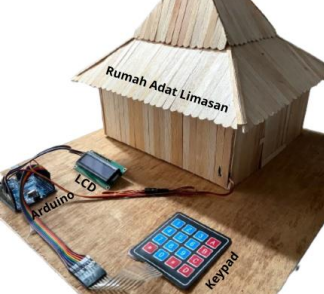
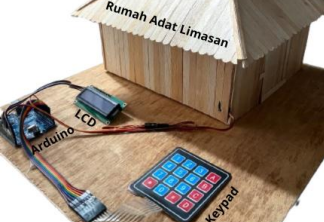
final responsive portfolio

diff --git a/index.html b/index.html
@@ -21,9 +21,18 @@
     scroll-behavior:smooth;
 }
 
+html,body{
+    overflow-x:hidden;
+}
+
 body{
     background:#020617;
     color:white;
+}
+
+img{
+    max-width:100%;
+    display:block;
 }
 
 .glass{
@@ -57,7 +66,7 @@ body{
 
 <nav class="fixed top-0 w-full glass z-50">
 
-<div class="max-w-7xl mx-auto px-6 py-4 flex justify-between items-center">
+<div class="max-w-7xl mx-auto px-4 md:px-6 py-4 flex justify-between items-center">
 
 <div class="flex items-center gap-3">
 
@@ -66,13 +75,13 @@ src="assets/profile.jpeg"
 alt="Ferdian"
 class="w-10 h-10 rounded-full border-2 border-cyan-400 object-cover">
 
-<h1 class="text-2xl font-bold text-cyan-400">
+<h1 class="text-lg md:text-2xl font-bold text-cyan-400">
 Portofolio-Ferdian
 </h1>
 
 </div>
 
-<div class="hidden md:flex gap-8">
+<div class="flex gap-4 md:gap-8 text-sm md:text-base">
 
 <a href="#about">About</a>
 <a href="#skills">Skills</a>
@@ -87,9 +96,9 @@ Portofolio-Ferdian
 
 <!-- HERO -->
 
-<section class="min-h-screen flex items-center">
+<section class="min-h-screen flex items-center pt-28">
 
-<div class="max-w-7xl mx-auto px-6 grid md:grid-cols-2 gap-10">
+<div class="max-w-7xl mx-auto px-6 grid md:grid-cols-2 gap-10 items-center">
 
 <div data-aos="fade-right">
 
@@ -97,7 +106,7 @@ Portofolio-Ferdian
 👋 Halo, Saya
 </p>
 
-<h1 class="text-5xl md:text-7xl font-extrabold leading-tight">
+<h1 class="text-4xl sm:text-5xl md:text-7xl font-extrabold leading-tight">
 
 FERDIAN
 
@@ -107,9 +116,13 @@ FERDIAN
 
 </h1>
 
-<h2 class="mt-5 text-3xl font-semibold">
+<h2 class="mt-5 text-2xl md:text-3xl font-semibold">
 Software Engineer
 </h2>
+
+<p class="mt-2 text-cyan-400 font-medium">
+Web Developer • Mobile Developer • IoT Enthusiast
+</p>
 
 <p class="mt-6 text-slate-400 leading-loose">
 
@@ -117,17 +130,17 @@ Mahasiswa Teknik Informatika Universitas Duta Bangsa Surakarta yang berfokus pad
 
 </p>
 
-<div class="mt-8 flex flex-wrap gap-4">
+<div class="mt-8 flex flex-col sm:flex-row gap-4">
 
 <a href="#projects"
-class="gradient px-8 py-4 rounded-xl font-semibold">
+class="gradient px-8 py-4 rounded-xl font-semibold text-center">
 
 🚀 Lihat Proyek
 
 </a>
 
 <a href="#contact"
-class="border border-cyan-500 px-8 py-4 rounded-xl hover:bg-cyan-500 transition">
+class="border border-cyan-500 px-8 py-4 rounded-xl hover:bg-cyan-500 transition text-center">
 
 📧 Hubungi Saya
 
@@ -137,15 +150,15 @@ class="border border-cyan-500 px-8 py-4 rounded-xl hover:bg-cyan-500 transition"
 
 </div>
 
-<div class="flex justify-center items-center" data-aos="zoom-in">
+<div class="flex justify-center" data-aos="zoom-in">
 
-<div class="w-[400px] h-[400px] rounded-full gradient glow flex items-center justify-center">
+<div class="w-[280px] h-[280px] md:w-[400px] md:h-[400px] rounded-full gradient glow flex items-center justify-center">
 
-<div class="w-[380px] h-[380px] rounded-full bg-slate-950 flex items-center justify-center">
+<div class="w-[260px] h-[260px] md:w-[380px] md:h-[380px] rounded-full bg-slate-950 flex items-center justify-center">
 
 <img
 src="assets/profile.jpeg"
-class="rounded-full w-[320px] h-[320px] object-cover">
+class="rounded-full w-[220px] h-[220px] md:w-[320px] md:h-[320px] object-cover">
 
 </div>
 
@@ -163,7 +176,7 @@ class="rounded-full w-[320px] h-[320px] object-cover">
 
 <div class="max-w-6xl mx-auto px-6">
 
-<div class="grid md:grid-cols-4 gap-6">
+<div class="grid grid-cols-2 md:grid-cols-4 gap-6">
 
 <div class="glass p-8 rounded-2xl text-center">
 <h3 class="text-4xl font-bold text-blue-500">5+</h3>
@@ -193,11 +206,11 @@ class="rounded-full w-[320px] h-[320px] object-cover">
 
 <!-- ABOUT -->
 
-<section id="about" class="py-24">
+<section id="about" class="py-24 scroll-mt-28">
 
 <div class="max-w-5xl mx-auto px-6">
 
-<h2 class="text-5xl font-bold mb-12">
+<h2 class="text-4xl md:text-5xl font-bold mb-12">
 About Me
 </h2>
 
@@ -221,11 +234,11 @@ Saya senang membangun solusi digital yang inovatif dan bermanfaat bagi masyaraka
 
 <!-- SKILLS -->
 
-<section id="skills" class="py-24">
+<section id="skills" class="py-24 scroll-mt-28">
 
 <div class="max-w-6xl mx-auto px-6">
 
-<h2 class="text-5xl font-bold mb-12">
+<h2 class="text-4xl md:text-5xl font-bold mb-12">
 Tech Stack
 </h2>
 
@@ -249,11 +262,11 @@ Tech Stack
 
 <!-- PROJECTS -->
 
-<section id="projects" class="py-24">
+<section id="projects" class="py-24 scroll-mt-28">
 
 <div class="max-w-7xl mx-auto px-6">
 
-<h2 class="text-5xl font-bold mb-12">
+<h2 class="text-4xl md:text-5xl font-bold mb-12">
 Featured Projects
 </h2>
 
@@ -262,7 +275,7 @@ Featured Projects
 <div class="glass rounded-3xl overflow-hidden project-card">
 
 <img src="assets/umkm-desa.png"
-class="w-full h-56 object-cover">
+class="w-full h-56 md:h-64 object-cover">
 
 <div class="p-6">
 
@@ -289,7 +302,7 @@ class="gradient px-5 py-3 rounded-xl inline-block mt-5">
 <div class="glass rounded-3xl overflow-hidden project-card">
 
 <img src="assets/carent.png"
-class="w-full h-56 object-cover">
+class="w-full h-56 md:h-64 object-cover">
 
 <div class="p-6">
 
@@ -308,7 +321,7 @@ Sistem rental kendaraan berbasis web dengan fitur manajemen kendaraan dan transa
 <div class="glass rounded-3xl overflow-hidden project-card">
 
 <img src="assets/warmindo.jpeg"
-class="w-full h-56 object-cover">
+class="w-full h-56 md:h-64 object-cover">
 
 <div class="p-6">
 
@@ -332,11 +345,11 @@ Aplikasi pemesanan makanan berbasis web untuk meningkatkan pelayanan pelanggan.
 
 <!-- CONTACT -->
 
-<section id="contact" class="py-24">
+<section id="contact" class="py-24 scroll-mt-28">
 
 <div class="max-w-4xl mx-auto px-6">
 
-<h2 class="text-5xl font-bold text-center mb-6">
+<h2 class="text-4xl md:text-5xl font-bold text-center mb-6">
 Let's Work Together
 </h2>
 
@@ -347,50 +360,49 @@ Silakan hubungi saya untuk kolaborasi, freelance project, atau diskusi teknologi
 <form
 action="https://formsubmit.co/[email redacted]"
 method="POST"
-class="glass p-8 rounded-3xl">
+class="glass p-6 md:p-8 rounded-3xl">
 
-    <input type="hidden" name="_subject" value="Pesan Baru dari Website Portofolio">
-    <input type="hidden" name="_captcha" value="false">
-    <input type="hidden" name="_template" value="table">
-    <input type="hidden" name="_next" value="https://porto-ferdian.vercel.app/success.html">
+<input type="hidden" name="_subject" value="Pesan Baru dari Website Portofolio">
+<input type="hidden" name="_captcha" value="false">
+<input type="hidden" name="_template" value="table">
+<input type="hidden" name="_next" value="https://porto-ferdian.vercel.app/success.html">
 
-    <div class="grid md:grid-cols-2 gap-6">
+<div class="grid md:grid-cols-2 gap-6">
 
-        <input
-        type="text"
-        name="nama"
-        placeholder="Nama Lengkap"
-        required
-        class="bg-slate-900 border border-slate-700 p-4 rounded-xl w-full">
+<input
+type="text"
+name="nama"
+placeholder="Nama Lengkap"
+required
+class="bg-slate-900 border border-slate-700 p-4 rounded-xl w-full">
 
-        <input
-        type="email"
-        name="email"
-        placeholder="Email"
-        required
-        class="bg-slate-900 border border-slate-700 p-4 rounded-xl w-full">
+<input
+type="email"
+name="email"
+placeholder="Email"
+required
+class="bg-slate-900 border border-slate-700 p-4 rounded-xl w-full">
 
-    </div>
+</div>
 
-    <textarea
-    name="pesan"
-    rows="6"
-    placeholder="Tulis pesan Anda..."
-    required
-    class="w-full bg-slate-900 border border-slate-700 p-4 rounded-xl mt-6"></textarea>
+<textarea
+name="pesan"
+rows="6"
+placeholder="Tulis pesan Anda..."
+required
+class="w-full bg-slate-900 border border-slate-700 p-4 rounded-xl mt-6"></textarea>
 
-    <button
-    type="submit"
-    class="gradient px-8 py-4 rounded-xl mt-6 font-semibold">
+<button
+type="submit"
+class="gradient w-full py-4 rounded-xl mt-6 font-semibold">
 
-    📨 Kirim Pesan
+📨 Kirim Pesan
 
-    </button>
+</button>
 
 </form>
 
-
-<div class="flex flex-wrap justify-center gap-4 mt-10">
+<div class="flex justify-center mt-10">
 
 <a href="https://wa.me/6282241651176"
 target="_blank"
@@ -402,14 +414,14 @@ class="bg-green-600 hover:bg-green-700 px-8 py-4 rounded-xl">
 
 </div>
 
+</div>
+
 </section>
 
-<!-- FOOTER -->
-
-<footer class="border-t border-slate-800 py-10 text-center text-slate-500">
+<footer class="border-t border-slate-800 py-10 px-6 text-center text-slate-500">
 
 <p>
-© 2026 Portofolio-Ferdian | Built with by Ferdian Ady Sudrajat
+© 2026 Portofolio-Ferdian | Built with ❤️ by Ferdian Ady Sudrajat
 </p>
 
 </footer>